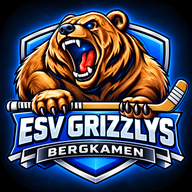
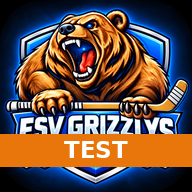
Add files via upload

Changed region(s): [[0.0, 0.6875, 1.0, 0.875]]

diff --git a/index.html b/index.html
@@ -3,19 +3,19 @@
 <head>
 <meta charset="utf-8">
 <meta name="viewport" content="width=device-width, initial-scale=1, viewport-fit=cover">
-<meta name="theme-color" content="#071b33">
+<meta name="theme-color" content="#e8760a">
 <meta name="description" content="ESV Grizzlys Bergkamen U15 – Spielplan 2026/27">
 <link rel="manifest" href="manifest.webmanifest">
 <link rel="icon" type="image/png" sizes="192x192" href="icon-192.png">
 <link rel="apple-touch-icon" href="icon-192.png">
-<title>ESV Grizzlys U15</title>
+<title>TEST – Grizzlys U15</title><script>window.GRIZZLYS_TEST=true</script>
 <!-- Google Analytics 4 – bewusst unabhängig von Firebase-JavaScript eingebunden -->
-<script async src="https://www.googletagmanager.com/gtag/js?id=G-WJ539PL04L"></script>
+
 <script>
   window.dataLayer = window.dataLayer || [];
   function gtag(){dataLayer.push(arguments);}
   gtag("js", new Date());
-  gtag("config", "G-WJ539PL04L");
+  /* Test: kein Analytics */
   function trackAnalyticsEvent(name, params) { try { gtag("event", name, params || {}); } catch(e) {} }
 </script>
 <style>
@@ -792,6 +792,23 @@ html.dark .bugReportGrid input,html.dark .bugReportGrid select,html.dark .bugRep
 .hw .fbHead span,.hw .fbTile small{color:#c9a98a}.hw .fbTile{background:#1c0d05;color:#ffe3c4;border-color:#5a2d0a}
 .hw .fbBubble{background:linear-gradient(135deg,#ff7a00,#b34700)}
 .hw .fbSeg{background:#1c0d05;border-color:#5a2d0a}.hw .fbSeg button{color:#ffd2a1}.hw .fbSeg button.on{background:#ff7a00;color:#1c0d05}
+.testRibbon{position:sticky;top:0;z-index:70;background:#e8760a;color:#fff;text-align:center;font:800 12px/1 system-ui,sans-serif;letter-spacing:.06em;text-transform:uppercase;padding:7px 8px}
+/* Tabellenstand (EHV NRW) – kleiner Chip bei Paarungen und Gegnern */
+.gzStand{display:flex;align-items:center;gap:5px;width:fit-content;max-width:100%;margin:5px auto 0;padding:2px 8px 2px 2px;border-radius:999px;border:1px solid rgba(16,32,51,.10);background:rgba(16,32,51,.045);font-size:10px;font-weight:700;line-height:1.3;letter-spacing:.01em;color:var(--muted);white-space:nowrap;font-variant-numeric:tabular-nums}
+.gzStand b{display:inline-block;min-width:17px;padding:1px 6px;border-radius:999px;background:var(--navy2);color:#fff;font-weight:900;font-size:9.5px;text-align:center}
+.gzStand.none{padding:2px 8px;border-style:dashed;background:transparent;font-weight:600}
+.gcSide .gzStand{margin-top:-1px}
+.opponentCardInfo .gzStand{margin:6px 0 0}
+[data-team="A"] .gzStand b{background:var(--a)}
+[data-team="B"] .gzStand b{background:var(--b);color:#3a1d00}
+html.dark .gzStand{border-color:rgba(255,255,255,.14);background:rgba(255,255,255,.06)}
+html.dark .gzStand b,html.dark .card .gzStand b{color:#fff;opacity:1}
+html.dark [data-team="B"] .gzStand b{color:#3a1d00}
+.hw .hwGameCard .gzStand{border-color:rgba(255,122,0,.35);background:rgba(255,122,0,.10);color:#ffe9d2}
+.gzStandNote{margin:12px 2px 0;font-size:10.5px;color:var(--muted);text-align:center}
+.hw .gzStandNote{color:#c9a98a}
+@media print{.gzStand,.gzStandNote{display:none}}
+
 </style>
 <script>
 /* Halloween-Zeitraum: 20.10. bis 02.11. (automatisch), Schalter in der Info-Seite */
@@ -809,7 +826,7 @@ html.dark .bugReportGrid input,html.dark .bugReportGrid select,html.dark .bugRep
 </script>
 <script>window.ICONS={"pin": "<path d=\"M9 11a3 3 0 1 0 6 0a3 3 0 0 0 -6 0\"/><path d=\"M17.657 16.657l-4.243 4.243a2 2 0 0 1 -2.827 0l-4.244 -4.243a8 8 0 1 1 11.314 0z\"/>", "calplus": "<path d=\"M12.5 21h-6.5a2 2 0 0 1 -2 -2v-12a2 2 0 0 1 2 -2h12a2 2 0 0 1 2 2v5\"/><path d=\"M16 3v4\"/><path d=\"M8 3v4\"/><path d=\"M4 11h16\"/><path d=\"M16 19h6\"/><path d=\"M19 16v6\"/>", "cal": "<path d=\"M4 7a2 2 0 0 1 2 -2h12a2 2 0 0 1 2 2v12a2 2 0 0 1 -2 2h-12a2 2 0 0 1 -2 -2v-12z\"/><path d=\"M16 3v4\"/><path d=\"M8 3v4\"/><path d=\"M4 11h16\"/>", "bell": "<path d=\"M10 5a2 2 0 1 1 4 0a7 7 0 0 1 4 6v3a4 4 0 0 0 2 3h-16a4 4 0 0 0 2 -3v-3a7 7 0 0 1 4 -6\"/><path d=\"M9 17v1a3 3 0 0 0 6 0v-1\"/>", "share": "<path d=\"M6 12m-3 0a3 3 0 1 0 6 0a3 3 0 1 0 -6 0\"/><path d=\"M18 6m-3 0a3 3 0 1 0 6 0a3 3 0 1 0 -6 0\"/><path d=\"M18 18m-3 0a3 3 0 1 0 6 0a3 3 0 1 0 -6 0\"/><path d=\"M8.7 10.7l6.6 -3.4\"/><path d=\"M8.7 13.3l6.6 3.4\"/>", "filter": "<path d=\"M4 4h16v2.172a2 2 0 0 1 -.586 1.414l-4.414 4.414v7l-6 2v-8.5l-4.48 -4.928a2 2 0 0 1 -.52 -1.345v-2.227z\"/>", "target": "<path d=\"M12 12m-1 0a1 1 0 1 0 2 0a1 1 0 1 0 -2 0\"/><path d=\"M12 12m-5 0a5 5 0 1 0 10 0a5 5 0 1 0 -10 0\"/><path d=\"M12 12m-9 0a9 9 0 1 0 18 0a9 9 0 1 0 -18 0\"/>", "list": "<path d=\"M9 6l11 0\"/><path d=\"M9 12l11 0\"/><path d=\"M9 18l11 0\"/><path d=\"M5 6l0 .01\"/><path d=\"M5 12l0 .01\"/><path d=\"M5 18l0 .01\"/>", "chart": "<path d=\"M3 13a1 1 0 0 1 1 -1h4a1 1 0 0 1 1 1v6a1 1 0 0 1 -1 1h-4a1 1 0 0 1 -1 -1z\"/><path d=\"M15 9a1 1 0 0 1 1 -1h4a1 1 0 0 1 1 1v10a1 1 0 0 1 -1 1h-4a1 1 0 0 1 -1 -1z\"/><path d=\"M9 5a1 1 0 0 1 1 -1h4a1 1 0 0 1 1 1v14a1 1 0 0 1 -1 1h-4a1 1 0 0 1 -1 -1z\"/><path d=\"M4 20h14\"/>", "search": "<path d=\"M10 10m-7 0a7 7 0 1 0 14 0a7 7 0 1 0 -14 0\"/><path d=\"M21 21l-6 -6\"/>", "download": "<path d=\"M4 17v2a2 2 0 0 0 2 2h12a2 2 0 0 0 2 -2v-2\"/><path d=\"M7 11l5 5l5 -5\"/><path d=\"M12 4l0 12\"/>", "file": "<path d=\"M14 3v4a1 1 0 0 0 1 1h4\"/><path d=\"M17 21h-10a2 2 0 0 1 -2 -2v-14a2 2 0 0 1 2 -2h7l5 5v11a2 2 0 0 1 -2 2z\"/><path d=\"M9 9l1 0\"/><path d=\"M9 13l6 0\"/><path d=\"M9 17l6 0\"/>", "chev": "<path d=\"M9 6l6 6l-6 6\"/>", "home": "<path d=\"M5 12l-2 0l9 -9l9 9l-2 0\"/><path d=\"M5 12v7a2 2 0 0 0 2 2h10a2 2 0 0 0 2 -2v-7\"/><path d=\"M9 21v-6a2 2 0 0 1 2 -2h2a2 2 0 0 1 2 2v6\"/>", "away": "<path d=\"M7 17l10 -10\"/><path d=\"M8 7l9 0l0 9\"/>", "clock": "<path d=\"M3 12a9 9 0 1 0 18 0a9 9 0 0 0 -18 0\"/><path d=\"M12 7v5l3 3\"/>", "world": "<path d=\"M3 12a9 9 0 1 0 18 0a9 9 0 0 0 -18 0\"/><path d=\"M3.6 9h16.8\"/><path d=\"M3.6 15h16.8\"/><path d=\"M11.5 3a17 17 0 0 0 0 18\"/><path d=\"M12.5 3a17 17 0 0 1 0 18\"/>", "chat": "<path d=\"M3 20l1.3 -3.9c-2.324 -3.437 -1.426 -7.872 2.1 -10.374c3.526 -2.501 8.59 -2.296 11.845 .48c3.255 2.777 3.695 7.266 1.029 10.501c-2.666 3.235 -7.615 4.215 -11.574 2.293l-4.7 1\"/>", "lock": "<path d=\"M5 13a2 2 0 0 1 2 -2h10a2 2 0 0 1 2 2v6a2 2 0 0 1 -2 2h-10a2 2 0 0 1 -2 -2z\"/><path d=\"M11 16a1 1 0 1 0 2 0a1 1 0 0 0 -2 0\"/><path d=\"M8 11v-4a4 4 0 1 1 8 0v4\"/>"};window.ic=function(n,c){return '<svg class="ic'+(c?' '+c:'')+'" viewBox="0 0 24 24" aria-hidden="true">'+(ICONS[n]||'')+'</svg>';};window.actBtn=function(cl,icon,label){return '<button class="action '+cl+'" type="button"><span class="aIcon">'+ic(icon)+'</span>'+label+'</button>';};</script>
 </head>
-<body>
+<body><div class="testRibbon" role="note">Test v53 · nichts wird gespeichert</div>
 <div id="updateBanner" class="updateBanner" role="status" aria-live="polite" hidden><span class="updateBannerIcon" aria-hidden="true">&#8635;</span><div class="updateBannerText"><b>Neue Version verfügbar</b><span>Kurz aktualisieren, dann bist du auf dem neuesten Stand.</span></div><button id="updateBannerReload" class="updateBannerBtn" type="button">Aktualisieren</button><button id="updateBannerClose" class="updateBannerClose" type="button" aria-label="Schließen">&times;</button></div>
 <div class="app">
 <svg width="0" height="0" style="position:absolute" aria-hidden="true"><defs><g id="gearPath" fill="none" stroke="currentColor" stroke-width="1.8" stroke-linejoin="round"><path d="M12 8.5a3.5 3.5 0 1 0 0 7a3.5 3.5 0 0 0 0-7z M19.4 13.5a7.7 7.7 0 0 0 0-3l2-1.6-2-3.4-2.4 1a7.6 7.6 0 0 0-2.6-1.5L14 2.5h-4l-.4 2.5a7.6 7.6 0 0 0-2.6 1.5l-2.4-1-2 3.4 2 1.6a7.7 7.7 0 0 0 0 3l-2 1.6 2 3.4 2.4-1a7.6 7.6 0 0 0 2.6 1.5l.4 2.5h4l.4-2.5a7.6 7.6 0 0 0 2.6-1.5l2.4 1 2-3.4z"/></g></defs></svg>
@@ -837,11 +854,11 @@ html.dark .bugReportGrid input,html.dark .bugReportGrid select,html.dark .bugRep
 Tippe auf einen Gegner, um alle Spiele gegen ihn zu sehen.
 </div>
 <div class="searchWrap"><svg class="ic" viewBox="0 0 24 24" aria-hidden="true"><path d="M10 10m-7 0a7 7 0 1 0 14 0a7 7 0 1 0 -14 0"/><path d="M21 21l-6 -6"/></svg><input id="opponentSearch" type="search" placeholder="Gegner suchen …" aria-label="Gegner suchen" style="width:100%;padding:12px 12px 12px 42px;border:0;box-shadow:0 4px 14px rgba(16,32,51,.08);border-radius:14px;background:#fff;font:inherit"></div>
-<div id="opponentsList" class="list"></div>
+<div id="opponentsList" class="list"></div><div id="standNote" class="gzStandNote" hidden></div>
   </section>
 <section id="scheduleView" hidden><div class="scheduleHead"><div id="scheduleTitle" class="scheduleTitle">Spielplan</div><div id="scheduleCount" class="small"></div></div><div id="scheduleSticky" class="scheduleSticky"><div class="scheduleModes"><button id="chronoBtn" class="modeBtn active" type="button"><svg class="ic" viewBox="0 0 24 24" aria-hidden="true"><path d="M9 6l11 0"/><path d="M9 12l11 0"/><path d="M9 18l11 0"/><path d="M5 6l0 .01"/><path d="M5 12l0 .01"/><path d="M5 18l0 .01"/></svg>Chronologisch</button><button id="monthBtn" class="modeBtn" type="button"><svg class="ic" viewBox="0 0 24 24" aria-hidden="true"><path d="M4 7a2 2 0 0 1 2 -2h12a2 2 0 0 1 2 2v12a2 2 0 0 1 -2 2h-12a2 2 0 0 1 -2 -2v-12z"/><path d="M16 3v4"/><path d="M8 3v4"/><path d="M4 11h16"/></svg>Kalender</button></div><div class="scheduleFilters"><div class="filterRow"><button id="filterToggle" class="filterToggle" type="button" aria-expanded="false"><span><svg class="ic" viewBox="0 0 24 24" aria-hidden="true"><path d="M4 4h16v2.172a2 2 0 0 1 -.586 1.414l-4.414 4.414v7l-6 2v-8.5l-4.48 -4.928a2 2 0 0 1 -.52 -1.345v-2.227z"/></svg>Filter</span><span id="filterSummary" class="filterSummary">Alle Spiele</span></button><button id="todayBtn" class="todayBtn" type="button" aria-label="Zum heutigen Tag springen"><svg class="ic" viewBox="0 0 24 24" aria-hidden="true"><path d="M12 12m-1 0a1 1 0 1 0 2 0a1 1 0 1 0 -2 0"/><path d="M12 12m-5 0a5 5 0 1 0 10 0a5 5 0 1 0 -10 0"/><path d="M12 12m-9 0a9 9 0 1 0 18 0a9 9 0 1 0 -18 0"/></svg>Heute</button></div><div id="filterPanel" class="filterPanel" aria-hidden="true"><button class="filterOption teamAOpt selected" type="button" data-filter="A">U15 A</button><button class="filterOption teamBOpt selected" type="button" data-filter="B">U15 B</button><button class="filterOption homeOpt selected" type="button" data-filter="home">Heim</button><button class="filterOption awayOpt selected" type="button" data-filter="away">Auswärts</button><button id="filterReset" class="filterReset" type="button">↺ Alle Filter zurücksetzen</button></div></div></div><div class="tableLinks"><a href="https://ehv-nrw.de/leagues/league/u15/lln/66/" target="_blank" rel="noopener noreferrer"><svg class="ic" viewBox="0 0 24 24" aria-hidden="true"><path d="M3 13a1 1 0 0 1 1 -1h4a1 1 0 0 1 1 1v6a1 1 0 0 1 -1 1h-4a1 1 0 0 1 -1 -1z"/><path d="M15 9a1 1 0 0 1 1 -1h4a1 1 0 0 1 1 1v10a1 1 0 0 1 -1 1h-4a1 1 0 0 1 -1 -1z"/><path d="M9 5a1 1 0 0 1 1 -1h4a1 1 0 0 1 1 1v14a1 1 0 0 1 -1 1h-4a1 1 0 0 1 -1 -1z"/><path d="M4 20h14"/></svg>Tabelle U15 A</a><a href="https://ehv-nrw.de/leagues/league/u15/bzl/67/" target="_blank" rel="noopener noreferrer"><svg class="ic" viewBox="0 0 24 24" aria-hidden="true"><path d="M3 13a1 1 0 0 1 1 -1h4a1 1 0 0 1 1 1v6a1 1 0 0 1 -1 1h-4a1 1 0 0 1 -1 -1z"/><path d="M15 9a1 1 0 0 1 1 -1h4a1 1 0 0 1 1 1v10a1 1 0 0 1 -1 1h-4a1 1 0 0 1 -1 -1z"/><path d="M9 5a1 1 0 0 1 1 -1h4a1 1 0 0 1 1 1v14a1 1 0 0 1 -1 1h-4a1 1 0 0 1 -1 -1z"/><path d="M4 20h14"/></svg>Tabelle U15 B</a></div><div id="gamesList" class="list"></div><div id="calendarView" class="calendarWrap" hidden></div></section>
 <section id="downloadsView" hidden><div class="infoCard"><div class="dlTitle"><svg class="ic" viewBox="0 0 24 24" aria-hidden="true"><path d="M4 17v2a2 2 0 0 0 2 2h12a2 2 0 0 0 2 -2v-2"/><path d="M7 11l5 5l5 -5"/><path d="M12 4l0 12"/></svg>Kalender-Downloads</div><div class="small" style="margin-bottom:14px">Lade den Spielplan als Kalenderdatei für dein Handy herunter oder drucke ihn als PDF.</div><div class="downloadCards"><button id="downloadCal" class="downloadCard dlCal"><span class="dlIcon" style="background:var(--navy)"><svg class="ic" viewBox="0 0 24 24" aria-hidden="true"><path d="M12.5 21h-6.5a2 2 0 0 1 -2 -2v-12a2 2 0 0 1 2 -2h12a2 2 0 0 1 2 2v5"/><path d="M16 3v4"/><path d="M8 3v4"/><path d="M4 11h16"/><path d="M16 19h6"/><path d="M19 16v6"/></svg></span><b>Kalender herunterladen</b><small>Mannschaft, Heim/Auswärts und Zeitraum selbst auswählen</small><svg class="ic dlGo" viewBox="0 0 24 24" aria-hidden="true"><path d="M9 6l6 6l-6 6"/></svg></button><button id="downloadPdf" class="downloadCard"><span class="dlIcon" style="background:#fde8e6;color:#d6352b"><svg class="ic" viewBox="0 0 24 24" aria-hidden="true"><path d="M14 3v4a1 1 0 0 0 1 1h4"/><path d="M17 21h-10a2 2 0 0 1 -2 -2v-14a2 2 0 0 1 2 -2h7l5 5v11a2 2 0 0 1 -2 2z"/><path d="M9 9l1 0"/><path d="M9 13l6 0"/><path d="M9 17l6 0"/></svg></span><b>Spielplan als PDF</b><small>Alle Spiele · Ergebnisse, wenn vorhanden · zum Ausdrucken</small><svg class="ic dlGo" viewBox="0 0 24 24" aria-hidden="true"><path d="M9 6l6 6l-6 6"/></svg></button></div></div></section>
-<section id="infoView" hidden><div class="inHero"><img src="logo.png" alt="" width="54" height="54"><div><b>ESV Grizzlys Bergkamen</b><span>U15 · Saison 2026/27</span></div><em class="inVer">1.8.0-v51</em></div>
+<section id="infoView" hidden><div class="inHero"><img src="logo.png" alt="" width="54" height="54"><div><b>ESV Grizzlys Bergkamen</b><span>U15 · Saison 2026/27</span></div><em class="inVer">1.8.0-v53</em></div>
 <div class="infoCard inCard"><div class="inHead"><b>Dein digitaler Spielplan</b></div><p class="inText">Alle Termine und Ergebnisse von <b>U15 A</b> und <b>U15 B</b> an einem Ort – immer aktuell, auch unterwegs.</p><div class="inTiles"><div class="inTile"><i>📅</i><b>Spielplan</b><small>Liste oder Monatskalender</small></div><div class="inTile"><i>🏒</i><b>Gegner</b><small>Spiele, Orte und Routen</small></div><div class="inTile"><i>⬇</i><b>Downloads</b><small>Kalender und PDF</small></div><div class="inTile"><i>🔔</i><b>Push</b><small>Ergebnisse und 24-h-Erinnerung</small></div><div class="inTile"><i>🥅</i><b>Ergebnisse</b><small>direkt nach Spielende</small></div><div class="inTile"><i>🔗</i><b>Teamseiten</b><small>Tabellen und Vereinsseiten</small></div></div><button id="shareApp" class="action inShare" type="button"><svg class="ic" viewBox="0 0 24 24" aria-hidden="true"><path d="M6 12m-3 0a3 3 0 1 0 6 0a3 3 0 1 0 -6 0"/><path d="M18 6m-3 0a3 3 0 1 0 6 0a3 3 0 1 0 -6 0"/><path d="M18 18m-3 0a3 3 0 1 0 6 0a3 3 0 1 0 -6 0"/><path d="M8.7 10.7l6.6 -3.4"/><path d="M8.7 13.3l6.6 3.4"/></svg>App teilen</button></div>
 <div class="infoCard inCard"><div class="inHead"><b>Grizzlys Teamseiten</b></div><span class="small">Kader, Tabellen und News auf den offiziellen Vereinsseiten.</span><div class="inTeams"><a class="inTeam teamA" href="http://www.grizzlys-bergkamen.de/teams/team.php?slug=grizzlys-u15a" target="_blank" rel="noopener noreferrer"><span class="inBadge">A</span><span class="inTeamTx"><b>Grizzlys U15 A</b><small>Teamseite öffnen</small></span><span class="inGo"><svg class="ic" viewBox="0 0 24 24" aria-hidden="true"><path d="M12 6h-6a2 2 0 0 0 -2 2v10a2 2 0 0 0 2 2h10a2 2 0 0 0 2 -2v-6"/><path d="M11 13l9 -9"/><path d="M15 4h5v5"/></svg></span></a><a class="inTeam teamB" href="http://www.grizzlys-bergkamen.de/teams/team.php?slug=grizzlys-u15b" target="_blank" rel="noopener noreferrer"><span class="inBadge">B</span><span class="inTeamTx"><b>Grizzlys U15 B</b><small>Teamseite öffnen</small></span><span class="inGo"><svg class="ic" viewBox="0 0 24 24" aria-hidden="true"><path d="M12 6h-6a2 2 0 0 0 -2 2v10a2 2 0 0 0 2 2h10a2 2 0 0 0 2 -2v-6"/><path d="M11 13l9 -9"/><path d="M15 4h5v5"/></svg></span></a></div></div>
 <p class="inNote">Die Logos stammen aus den jeweiligen Vereins- bzw. öffentlich verfügbaren Webauftritten. Ist ein Logo nicht erreichbar, zeigt die App ein neutrales Kürzel.</p></section>
@@ -916,7 +933,7 @@ Tippe auf einen Gegner, um alle Spiele gegen ihn zu sehen.
 </div></section>
 
 <div id="thanksModal" class="thanksModal" hidden aria-hidden="true"><div class="thanksBox" role="dialog" aria-modal="true" aria-labelledby="thanksTitle"><div class="hwDeco hwThanksBats" aria-hidden="true"><span class="hwBat hwBat1"><svg viewBox="0 0 48 24" aria-hidden="true"><path d="M24 7c-1.6 0-2.6 1.2-2.8 3.2C18 5.8 11.600 4 2 6c3 2 3.600 5 3.200 8.600 3-2.200 6-1.800 8.400 1.600 2-2.800 4-2.800 6-1.600L24 21l4.400-6c2-1.200 4-1.200 6 1.600 2.400-3.400 5.400-3.800 8.400-1.600-.4-3.600.2-6.600 3.200-8.600-9.600-2-16 -.2-19.200 4.200C26.600 8.200 25.600 7 24 7z" fill="currentColor"/></svg></span><span class="hwBat hwBat2"><svg viewBox="0 0 48 24" aria-hidden="true"><path d="M24 7c-1.6 0-2.6 1.2-2.8 3.2C18 5.8 11.600 4 2 6c3 2 3.600 5 3.200 8.600 3-2.200 6-1.800 8.400 1.600 2-2.800 4-2.800 6-1.600L24 21l4.400-6c2-1.200 4-1.200 6 1.600 2.400-3.400 5.400-3.800 8.400-1.600-.4-3.600.2-6.600 3.200-8.600-9.600-2-16 -.2-19.200 4.200C26.600 8.200 25.600 7 24 7z" fill="currentColor"/></svg></span><span class="hwBat hwBat3"><svg viewBox="0 0 48 24" aria-hidden="true"><path d="M24 7c-1.6 0-2.6 1.2-2.8 3.2C18 5.8 11.600 4 2 6c3 2 3.600 5 3.200 8.600 3-2.200 6-1.800 8.400 1.600 2-2.800 4-2.800 6-1.600L24 21l4.400-6c2-1.200 4-1.200 6 1.600 2.400-3.400 5.400-3.800 8.400-1.600-.4-3.600.2-6.600 3.200-8.600-9.600-2-16 -.2-19.200 4.200C26.600 8.200 25.600 7 24 7z" fill="currentColor"/></svg></span></div><img id="thanksImg" class="thanksImg" src="grizzlys-bug-icon.png" alt=""><div id="thanksTitle" class="thanksTitle"></div><div id="thanksText" class="thanksText"></div><button id="thanksClose" class="thanksBtn" type="button">Schließen</button></div></div>
-<div id="bugReportModal" class="bugReportModal" hidden aria-hidden="true"><div class="bugReportBox" role="dialog" aria-modal="true" aria-labelledby="bugReportTitle"><div class="matchModalHead"><div id="bugReportTitle" class="matchModalTitle">🐞 Fehler melden</div><button id="bugReportClose" class="matchModalClose" type="button" aria-label="Fehlermeldung schließen">×</button></div><div id="bugReportIntro" class="small">Beschreibe kurz, was nicht funktioniert. Die Meldung wird zusammen mit App-Version und technischen Basisdaten an die Verwaltung übermittelt.</div><div class="fbSegWrap"><div class="fbSegTitle">Art der Meldung</div><div class="fbSeg" id="fbSeg" role="radiogroup" aria-label="Art der Meldung"><button type="button" role="radio" data-fb="Fehler"><span>🐞</span>Fehler</button><button type="button" role="radio" data-fb="Wunsch / Anregung"><span>💡</span>Idee</button><button type="button" role="radio" data-fb="Lob"><span>👍</span>Lob</button></div></div><div class="bugReportGrid"><div class="fbHiddenSel"><label>Art<select id="bugReportType"><option value="Fehler">🐞 Fehler</option><option value="Wunsch / Anregung">💡 Wunsch / Anregung</option><option value="Lob">👍 Lob</option></select></label></div><label>Name <span style="color:#c62828">*</span><input id="bugReportName" type="text" maxlength="80" autocomplete="name" placeholder="Vor- und Nachname" required></label><label>Bereich<select id="bugReportArea"><option>Spielplan</option><option>Kalender</option><option>Ergebnisse</option><option>Push</option><option>Gegner</option><option>Downloads / PDF</option><option>App / Darstellung</option><option>Neue Funktion</option><option>Sonstiges</option></select></label><label><span id="bugReportDescLabel">Fehlerbeschreibung</span><textarea id="bugReportDescription" maxlength="2000" placeholder="Was funktioniert nicht? Was hast du gemacht?"></textarea><span id="fbCount" class="fbCount">0 / 2000</span></label><label>E-Mail für Rückfragen (optional)<input id="bugReportContact" type="email" maxlength="160" placeholder="name@beispiel.de"></label></div><div class="bugReportMeta"><span class="fbLock">🔒</span> App-Version 1.8.0-v51 · Geräte-/Browserdaten werden nur zur Analyse mitgesendet.</div><div class="bugReportActions"><button id="bugReportCancel" class="action" type="button">Abbrechen</button><button id="bugReportSend" class="action fbSend" type="button">Meldung senden</button></div></div></div>
+<div id="bugReportModal" class="bugReportModal" hidden aria-hidden="true"><div class="bugReportBox" role="dialog" aria-modal="true" aria-labelledby="bugReportTitle"><div class="matchModalHead"><div id="bugReportTitle" class="matchModalTitle">🐞 Fehler melden</div><button id="bugReportClose" class="matchModalClose" type="button" aria-label="Fehlermeldung schließen">×</button></div><div id="bugReportIntro" class="small">Beschreibe kurz, was nicht funktioniert. Die Meldung wird zusammen mit App-Version und technischen Basisdaten an die Verwaltung übermittelt.</div><div class="fbSegWrap"><div class="fbSegTitle">Art der Meldung</div><div class="fbSeg" id="fbSeg" role="radiogroup" aria-label="Art der Meldung"><button type="button" role="radio" data-fb="Fehler"><span>🐞</span>Fehler</button><button type="button" role="radio" data-fb="Wunsch / Anregung"><span>💡</span>Idee</button><button type="button" role="radio" data-fb="Lob"><span>👍</span>Lob</button></div></div><div class="bugReportGrid"><div class="fbHiddenSel"><label>Art<select id="bugReportType"><option value="Fehler">🐞 Fehler</option><option value="Wunsch / Anregung">💡 Wunsch / Anregung</option><option value="Lob">👍 Lob</option></select></label></div><label>Name <span style="color:#c62828">*</span><input id="bugReportName" type="text" maxlength="80" autocomplete="name" placeholder="Vor- und Nachname" required></label><label>Bereich<select id="bugReportArea"><option>Spielplan</option><option>Kalender</option><option>Ergebnisse</option><option>Push</option><option>Gegner</option><option>Downloads / PDF</option><option>App / Darstellung</option><option>Neue Funktion</option><option>Sonstiges</option></select></label><label><span id="bugReportDescLabel">Fehlerbeschreibung</span><textarea id="bugReportDescription" maxlength="2000" placeholder="Was funktioniert nicht? Was hast du gemacht?"></textarea><span id="fbCount" class="fbCount">0 / 2000</span></label><label>E-Mail für Rückfragen (optional)<input id="bugReportContact" type="email" maxlength="160" placeholder="name@beispiel.de"></label></div><div class="bugReportMeta"><span class="fbLock">🔒</span> App-Version 1.8.0-v53 · Geräte-/Browserdaten werden nur zur Analyse mitgesendet.</div><div class="bugReportActions"><button id="bugReportCancel" class="action" type="button">Abbrechen</button><button id="bugReportSend" class="action fbSend" type="button">Meldung senden</button></div></div></div>
   <div id="hockeyGameModal" class="hockeyGameModal" hidden aria-hidden="true"><div class="hockeyGameBox" role="dialog" aria-modal="true" aria-labelledby="hockeyGameTitle"><div class="hwDeco hwFogA" aria-hidden="true"></div><div class="hwDeco hwFogB" aria-hidden="true"></div><div class="hwDeco hwGameEyes" aria-hidden="true"><i></i><i></i></div><div class="hwDeco hwGameSpider" aria-hidden="true"><b></b><span>🕷</span></div><div class="hwDeco hwGameBat" aria-hidden="true"><svg viewBox="0 0 48 24" aria-hidden="true"><path d="M24 7c-1.6 0-2.6 1.2-2.8 3.2C18 5.8 11.600 4 2 6c3 2 3.600 5 3.200 8.600 3-2.200 6-1.800 8.400 1.600 2-2.800 4-2.800 6-1.600L24 21l4.400-6c2-1.200 4-1.200 6 1.600 2.400-3.400 5.400-3.800 8.400-1.600-.4-3.600.2-6.600 3.200-8.600-9.600-2-16 -.2-19.200 4.200C26.600 8.200 25.600 7 24 7z" fill="currentColor"/></svg></div><div class="hwFlash" aria-hidden="true"></div><div id="hqFx" class="hqFx" aria-hidden="true"></div><div class="hockeyGameHead"><div id="hockeyGameTitle" class="hockeyGameTitle">🏒 Hockey Tic-Tac-Toe</div><button id="hockeyGameClose" class="hockeyGameClose" type="button" aria-label="Minispiel schließen">×</button></div><div class="hockeyGameBody"><div id="hockeyIntro" class="hockeyGameIntro">Best of 5 – wer zuerst 3 Runden gewinnt. Du bist der Puck.</div><div class="hqBoard" aria-live="polite"><div class="hqTeam"><i id="hqYou">GRIZZLYS</i><b id="hqScoreP">0</b></div><div class="hqMid"><div id="hqLamp" class="hqLamp" aria-hidden="true"></div><small id="hqSeriesInfo">Runde 1 · Best of 5</small></div><div class="hqTeam"><i id="hqFoe">GEGNER</i><b id="hqScoreC">0</b></div></div><div class="hqLevels" id="hqLevels" role="group" aria-label="Schwierigkeit"><button type="button" data-lv="easy">Anfänger</button><button type="button" data-lv="pro" class="on">Profi</button><button type="button" data-lv="keeper">Torwart</button></div><div class="hockeyRink"><div class="hqBanner" aria-hidden="true"><span>ESV GRIZZLYS</span><span>BERGKAMEN</span><span>U15</span></div><div id="hockeyBoard" class="hockeyBoard"></div><div class="hqBanner hqBannerB" aria-hidden="true"><span>BERGKAMEN</span><span>ESV GRIZZLYS</span><span>U15</span></div></div><div id="hockeyStatus" class="hockeyStatus">Dein Zug – schieße auf ein freies Feld!</div><div class="hqTools"><button id="hqPenBtn" class="hqPen" type="button">⏱ Strafzeit ×3</button><div id="hqTrophies" class="hqTrophies" aria-label="Pokale"></div></div><div class="hockeyActions"><button id="hockeyNewGame" class="action" type="button">🔄 Neue Serie</button><button id="hockeyGameClose2" class="action" type="button">Schließen</button></div><div class="hockeyHint">Das Spiel läuft nur auf deinem Gerät. Nur deine Pokale werden hier gespeichert.</div></div></div></div></div>
 <div id="calFilterModal" class="matchModal" hidden aria-hidden="true">
   <div class="matchModalBox" role="dialog" aria-modal="true" aria-labelledby="calFilterTitle">
@@ -986,9 +1003,13 @@ Tippe auf einen Gegner, um alle Spiele gegen ihn zu sehen.
 <script type="module">
 import { initializeApp } from "https://www.gstatic.com/firebasejs/12.2.1/firebase-app.js";
 import { getAuth, onAuthStateChanged, signInWithEmailAndPassword, signOut } from "https://www.gstatic.com/firebasejs/12.2.1/firebase-auth.js";
-import { getFirestore, collection, getDocs, doc, setDoc, addDoc, updateDoc, deleteDoc, serverTimestamp } from "https://www.gstatic.com/firebasejs/12.2.1/firebase-firestore.js";
-import { getMessaging, getToken, onMessage, isSupported } from "https://www.gstatic.com/firebasejs/12.2.1/firebase-messaging.js";
+import { getFirestore, collection, getDocs, doc, setDoc as _setDoc, addDoc as _addDoc, updateDoc as _updateDoc, deleteDoc as _deleteDoc, serverTimestamp } from "https://www.gstatic.com/firebasejs/12.2.1/firebase-firestore.js";
+import { getMessaging, getToken as _getToken, onMessage, isSupported } from "https://www.gstatic.com/firebasejs/12.2.1/firebase-messaging.js";
 import { getFunctions, httpsCallable } from "https://www.gstatic.com/firebasejs/12.2.1/firebase-functions.js";
+
+/* TESTVERSION: Schreibzugriffe und Push-Anmeldung sind gesperrt, damit keine echten Daten verändert werden */
+const _testBlock=()=>{throw new Error("Testversion: Speichern, Senden und Push sind hier deaktiviert.")};
+const setDoc=_testBlock, addDoc=_testBlock, updateDoc=_testBlock, deleteDoc=_testBlock, getToken=_testBlock;
 
 const firebaseConfig = {
   apiKey: "AIzaSyC-Dqjj-vNMYA8QRc3SGeivMDRjEHjwKe0",
@@ -1307,7 +1328,7 @@ async function submitBugReport(){
       area,
       description,
       contact,
-      appVersion:"1.8.0-v51",
+      appVersion:"1.8.0-v53",
       platform:detectPlatform(),
       userAgent:navigator.userAgent||"",
       pushRegistered:getPushRegistrationStatus(),
@@ -1585,6 +1606,62 @@ function monthLabel(g){return dt(g).toLocaleDateString("de-DE",{month:"long",yea
 function isHome(g){return g.home.includes("ESV Grizzlys")}
 function opponent(g){return isHome(g)?g.away:g.home}
 function address(g){return rinkAddresses[g.stadium]||g.stadium+", Deutschland"}
+/* ===== Tabellenstand vom EHV NRW =====
+   Zeigt Platz, Punkte und Tordifferenz als kleinen Chip bei Paarungen und Gegnern.
+   Die Daten kommen ausschließlich über die eigene Cloud Function "standings"
+   (functions/standings.js) – die App fragt den externen Dienst nie direkt ab.
+   Fällt der Abruf aus, bleibt der Chip weg – der Spielplan läuft normal weiter. */
+const STAND_URL="https://europe-west1-grizzlys-u15.cloudfunctions.net/standings";
+const STAND_STORE="grizzlysStandings", STAND_TTL=2*3600000;
+let standings={};
+try{const c=JSON.parse(localStorage.getItem(STAND_STORE)||"{}");if(c&&typeof c==="object")standings=c}catch(e){}
+function standNorm(s){return String(s||"").toLowerCase().replace(/[^a-z0-9äöüß]/g,"")}
+function standSig(s){const n=String(s||"");return logoKeys(n).sort().join("|")+(/grizzlys/i.test(n)?"|GRZ":"")+(/1b/i.test(n)?"#1b":"")}
+function standRow(team,name){
+  const rows=standings[team]&&standings[team].rows; if(!Array.isArray(rows))return null;
+  const n=standNorm(name);
+  return rows.find(r=>standNorm(r.n)===n)||(sig=>sig?rows.find(r=>standSig(r.n)===sig):null)(standSig(name))||null;
+}
+function standHtml(team,name,long=false){
+  const r=standRow(team,name); if(!r)return "";
+  if(!r.gp) return '<small class="gzStand none" title="Tabelle: noch kein Spiel absolviert">noch kein Spiel</small>';
+  const gd=Number(r.gd)||0, gdTxt=gd>0?"+"+gd:gd<0?"−"+Math.abs(gd):"±0";
+  const title="Tabelle: Platz "+r.r+" · "+r.gp+" "+(r.gp===1?"Spiel":"Spiele")+" · "+r.p+" Punkte · Tordifferenz "+gdTxt;
+  return '<small class="gzStand" title="'+esc(title)+'"><b>'+esc(r.r)+'.</b><span>'+esc(r.p)+' Pkt · '+gdTxt+(long?' · '+esc(r.gp)+' '+(r.gp===1?'Spiel':'Spiele'):'')+'</span></small>';
+}
+function standClean(part){
+  if(!part||!Array.isArray(part.rows))return null;
+  const rows=part.rows.map(x=>({n:String(x.n||"").slice(0,120),r:Number(x.r)||0,gp:Number(x.gp)||0,p:Number(x.p)||0,gd:Number(x.gd)||0})).filter(x=>x.n&&x.r).slice(0,40);
+  return rows.length?{rows,upd:String(part.upd||"").slice(0,40)}:null;
+}
+function standNote(){
+  const el=document.getElementById("standNote"); if(!el)return;
+  const have=["A","B"].filter(t=>standings[t]&&standings[t].rows);
+  if(!have.length){el.hidden=true;return}
+  const upd=have.map(t=>standings[t].upd).filter(Boolean).sort().pop();
+  el.hidden=false; el.textContent="Tabellenstand: EHV NRW"+(upd?" · Stand "+upd+" Uhr":"");
+}
+let standBusy=false;
+async function loadStandings(force=false){
+  if(standBusy)return;
+  if(!force&&standings.ts&&Date.now()-standings.ts<STAND_TTL){standNote();return}
+  standBusy=true;
+  try{
+    const res=await fetch(STAND_URL,{credentials:"omit"});
+    if(!res.ok)throw new Error("HTTP "+res.status);
+    const d=await res.json(), next={ts:Date.now()};
+    ["A","B"].forEach(t=>{const c=standClean(d&&d[t]); if(c)next[t]=c; else if(standings[t])next[t]=standings[t]});
+    const changed=["A","B"].some(t=>JSON.stringify(next[t]||null)!==JSON.stringify(standings[t]||null));
+    if(next.A||next.B){
+      standings=next;
+      try{localStorage.setItem(STAND_STORE,JSON.stringify(standings))}catch(e){}
+      if(changed){ try{renderNext(); if(window.applyResults)window.applyResults()}catch(e){console.warn(e)} }
+    }
+  }catch(e){ console.warn("Tabellenstand konnte nicht geladen werden",e); }
+  standBusy=false; standNote();
+}
+window.loadStandings=loadStandings;
+
 
 // Ungefähre Fahrentfernung ab Eissporthalle Bergkamen (Häupenweg 29).
 // Die Werte beziehen sich auf die jeweilige Eishalle und werden bewusst als ca.-Angabe angezeigt.
@@ -1651,9 +1728,9 @@ function teamLogoHtml(name,cls="opponentLogo"){
   }
   return grizzlysHtml(cls);
 }
-function sideHtml(name,right=false){
+function sideHtml(name,right=false,team=""){
   const ours=name.includes("ESV Grizzlys");
-  return `<div class="teamSide ${right?"right":""}">${right?"":(ours?teamLogoHtml(name):logoHtml(name))}<div class="teamSideName">${name}</div>${right?(ours?teamLogoHtml(name):logoHtml(name)):""}</div>`;
+  return `<div class="teamSide ${right?"right":""}">${right?"":(ours?teamLogoHtml(name):logoHtml(name))}<div class="teamSideName">${name}${team?standHtml(team,name):""}</div>${right?(ours?teamLogoHtml(name):logoHtml(name)):""}</div>`;
 }
 let scheduleMode="chrono";
 let calendarCursor=new Date(dt(games.slice().sort((a,b)=>dt(a)-dt(b))[0]));
@@ -1859,7 +1936,7 @@ function renderNext(){
   const cls=g.team==="A"?"teamA":"teamB";
   const t=document.getElementById("nextTeam"); t.className="nextTeam "+cls; t.textContent="U15 "+g.team; document.querySelector(".next").dataset.team=g.team; document.querySelector(".nextLabel").innerHTML="Nächstes Spiel"+hwBadge(g);
   document.getElementById("nextDate").innerHTML=`<span>${fmtDate(g)}</span><b class="nextTime">${g.time} Uhr</b>`;
-  document.getElementById("nextMatch").innerHTML=sideHtml(g.home)+`<div class="vs">VS</div>`+sideHtml(g.away,true);
+  document.getElementById("nextMatch").innerHTML=sideHtml(g.home,false,g.team)+`<div class="vs">VS</div>`+sideHtml(g.away,true,g.team);
   const nextDistance=distanceHtml(g.stadium);
   document.getElementById("nextMeta").innerHTML=`<svg class="pinIcon" viewBox="0 0 24 24" aria-hidden="true"><path d="M9 11a3 3 0 1 0 6 0a3 3 0 0 0 -6 0"/><path d="M17.657 16.657l-4.243 4.243a2 2 0 0 1 -2.827 0l-4.244 -4.243a8 8 0 1 1 11.314 0z"/></svg><b>${g.stadium}</b> · ${isHome(g)?"Heimspiel":"Auswärtsspiel"}${nextDistance?" · "+nextDistance:""}`;
   document.getElementById("nextRoute").onclick=()=>route(g); document.getElementById("nextCalendar").onclick=()=>calendar(g); document.getElementById("nextReminder").onclick=()=>reminder(g); document.getElementById("nextShare").onclick=()=>shareGame(g);
@@ -1997,7 +2074,7 @@ function renderLast(){
   const word={w:"Sieg",l:"Niederlage",d:"Unentschieden"};
   box.hidden=false; box.className="last "+(r?"res_"+r.o:"res_none"); box.dataset.team=g.team;
   box.innerHTML=`<div class="nextHead"><div class="nextLabel">Letztes Spiel${hwBadge(g)}</div><div class="nextTeam ${cls}">U15 ${g.team}</div></div>`+
-   `<div class="lastBody">${sideHtml(g.home)}<div class="lastScore">${r?`<b>${r.hs}:${r.as}</b><span class="lastPill ${r.o}">${word[r.o]}</span>`:`<span class="lastPill none">Ergebnis folgt</span>`}</div>${sideHtml(g.away,true)}</div>`+
+   `<div class="lastBody">${sideHtml(g.home,false,g.team)}<div class="lastScore">${r?`<b>${r.hs}:${r.as}</b><span class="lastPill ${r.o}">${word[r.o]}</span>`:`<span class="lastPill none">Ergebnis folgt</span>`}</div>${sideHtml(g.away,true,g.team)}</div>`+
    `<div class="lastFoot">${fmtDate(g)} · ${g.stadium} · ${isHome(g)?"Heimspiel":"Auswärtsspiel"}</div>`;
   hwDecorate(box,g);
   box.onclick=()=>openMatchDetails(g);
@@ -2066,6 +2143,7 @@ window.applyResults=function(){
       '<div class="opponentCardInfo">'+
       '<div class="opponentCardName">'+esc(name)+'</div>'+
       '<div class="opponentCardMeta"><span>'+gs.length+" "+(gs.length===1?"Spiel":"Spiele")+'</span>'+teamBadges+'<span>·</span>'+distanceHtml(routeGame.stadium)+'</div>'+
+      standHtml(teamSet[0],name,true)+
       '</div>'+
       '<button class="action opponentRoute" type="button">'+ic("pin")+'Route</button>'+
       '</article>';
@@ -2114,11 +2192,11 @@ window.applyResults=function(){
       '</div>'+
       '<div class="opponentGameMatchup">'+
         '<div class="opponentGameSide">'+
-          '<div class="opponentGameRole">HEIM</div>'+homeLogo+'<div class="opponentGameName">'+esc(g.home)+'</div>'+
+          '<div class="opponentGameRole">HEIM</div>'+homeLogo+'<div class="opponentGameName">'+esc(g.home)+'</div>'+standHtml(g.team,g.home)+
         '</div>'+
         '<div class="opponentGameVs">VS</div>'+
         '<div class="opponentGameSide right">'+
-          '<div class="opponentGameRole">AUSWÄRTS</div>'+awayLogo+'<div class="opponentGameName">'+esc(g.away)+'</div>'+
+          '<div class="opponentGameRole">AUSWÄRTS</div>'+awayLogo+'<div class="opponentGameName">'+esc(g.away)+'</div>'+standHtml(g.team,g.away)+
         '</div>'+
       '</div>'+
       '<div class="opponentGameHomeAway">'+(home?ic("home")+"HEIMSPIEL DER GRIZZLYS":ic("away")+"AUSWÄRTSSPIEL DER GRIZZLYS")+'</div>'+
@@ -2165,7 +2243,7 @@ function renderList(filter="all"){
     const card=document.createElement("article"); card.className="card "+(g.team==="B"?"teamB":"teamA"); card.dataset.date=g.date; card.dataset.team=g.team;
     const home=isHome(g);
     const sideL=home?teamLogoHtml(g.home,"opponentLogo"):logoHtml(g.home), sideR=home?logoHtml(g.away):teamLogoHtml(g.away,"opponentLogo");
-    card.innerHTML=`<div class="gcHead"><div class="gcLeft"><span class="teamBadge">U15 ${g.team}</span>${hwBadge(g)}</div><div class="gcWhen"><span class="gcDate">${fmtDate(g)}</span><b class="gcTime">${g.time}</b></div></div><div class="gcMatch"><div class="gcSide">${sideL}<span>${g.home}</span></div><div class="vs">VS</div><div class="gcSide">${sideR}<span>${g.away}</span></div></div><div class="gcMeta"><span class="homeaway">${home?ic("home")+"Heimspiel":ic("away")+"Auswärts"}</span></div><div class="gcVenue">${ic("pin")}<b>${g.stadium}</b> · ${address(g)}</div>${resultBadge(g)}<div class="cardActions">${actBtn("route","pin","Route")}${actBtn("cal","calplus","Termin")}${actBtn("rem","bell","Erinnerung")}${actBtn("share","share","Teilen")}</div>`;
+    card.innerHTML=`<div class="gcHead"><div class="gcLeft"><span class="teamBadge">U15 ${g.team}</span>${hwBadge(g)}</div><div class="gcWhen"><span class="gcDate">${fmtDate(g)}</span><b class="gcTime">${g.time}</b></div></div><div class="gcMatch"><div class="gcSide">${sideL}<span>${g.home}</span>${standHtml(g.team,g.home)}</div><div class="vs">VS</div><div class="gcSide">${sideR}<span>${g.away}</span>${standHtml(g.team,g.away)}</div></div><div class="gcMeta"><span class="homeaway">${home?ic("home")+"Heimspiel":ic("away")+"Auswärts"}</span></div><div class="gcVenue">${ic("pin")}<b>${g.stadium}</b> · ${address(g)}</div>${resultBadge(g)}<div class="cardActions">${actBtn("route","pin","Route")}${actBtn("cal","calplus","Termin")}${actBtn("rem","bell","Erinnerung")}${actBtn("share","share","Teilen")}</div>`;
     card.querySelector(".route").onclick=()=>route(g);card.querySelector(".cal").onclick=()=>calendar(g);card.querySelector(".rem").onclick=()=>reminder(g);card.querySelector(".share").onclick=()=>shareGame(g);
     if(g===ng){card.classList.add("nextGame");card.querySelector(".gcLeft").insertAdjacentHTML("beforeend",'<span class="nextBadge">Nächstes Spiel</span>')}
     hwDecorate(card,g);
@@ -2192,7 +2270,7 @@ function openMatchDetails(g){
   const homeLogo=home?teamLogoHtml(g.home,"opponentLogo"):logoHtml(g.home);
   const awayLogo=home?logoHtml(g.away):teamLogoHtml(g.away,"opponentLogo");
   const sideL=homeLogo, sideR=awayLogo;
-  content.innerHTML=`<article class="card mdCard ${g.team==="B"?"teamB":"teamA"}" data-team="${g.team}"><div class="gcHead"><div class="gcLeft"><span class="teamBadge">U15 ${g.team}</span>${hwBadge(g)}</div><div class="gcWhen"><span class="gcDate">${esc(fmtDate(g))}</span><b class="gcTime">${esc(g.time)}</b></div></div><div class="gcMatch"><div class="gcSide">${sideL}<span>${esc(g.home)}</span></div><div class="vs">VS</div><div class="gcSide">${sideR}<span>${esc(g.away)}</span></div></div><div class="gcMeta"><span class="homeaway">${home?ic("home")+"Heimspiel":ic("away")+"Auswärts"}</span></div><div class="gcVenue">${ic("pin")}<b>${esc(g.stadium)}</b> · ${esc(address(g))}</div>${resultFor(g)?resultBadge(g):""}<div class="matchModalActions">${actBtn("modalRoute","pin","Route")}${actBtn("modalCal","calplus","Termin")}${actBtn("modalRem","bell","Erinnerung")}${actBtn("modalShare","share","Teilen")}</div></article>`;
+  content.innerHTML=`<article class="card mdCard ${g.team==="B"?"teamB":"teamA"}" data-team="${g.team}"><div class="gcHead"><div class="gcLeft"><span class="teamBadge">U15 ${g.team}</span>${hwBadge(g)}</div><div class="gcWhen"><span class="gcDate">${esc(fmtDate(g))}</span><b class="gcTime">${esc(g.time)}</b></div></div><div class="gcMatch"><div class="gcSide">${sideL}<span>${esc(g.home)}</span>${standHtml(g.team,g.home)}</div><div class="vs">VS</div><div class="gcSide">${sideR}<span>${esc(g.away)}</span>${standHtml(g.team,g.away)}</div></div><div class="gcMeta"><span class="homeaway">${home?ic("home")+"Heimspiel":ic("away")+"Auswärts"}</span></div><div class="gcVenue">${ic("pin")}<b>${esc(g.stadium)}</b> · ${esc(address(g))}</div>${resultFor(g)?resultBadge(g):""}<div class="matchModalActions">${actBtn("modalRoute","pin","Route")}${actBtn("modalCal","calplus","Termin")}${actBtn("modalRem","bell","Erinnerung")}${actBtn("modalShare","share","Teilen")}</div></article>`;
   hwDecorate(content.querySelector(".mdCard"),g);
   content.querySelector(".modalRoute").onclick=()=>route(g);
   content.querySelector(".modalCal").onclick=()=>calendar(g);
@@ -2420,6 +2498,6 @@ applyHalloween(false);
     setInterval(check,30*60*1000);
   }).catch(()=>{});
 })();}
-updateFilterUi();renderNext();renderList("all");renderOpponents();
+updateFilterUi();renderNext();renderList("all");renderOpponents();standNote();loadStandings();document.addEventListener("visibilitychange",()=>{if(!document.hidden)loadStandings()});
 </script>
 </body></html>

diff --git a/sw.js b/sw.js
@@ -57,7 +57,7 @@ self.addEventListener("notificationclick", event => {
   );
 });
 
-const CACHE = "grizzlys-u15-v51";
+const CACHE = "grizzlys-u15-test-v53";
 
 const CORE = [
   "./",
